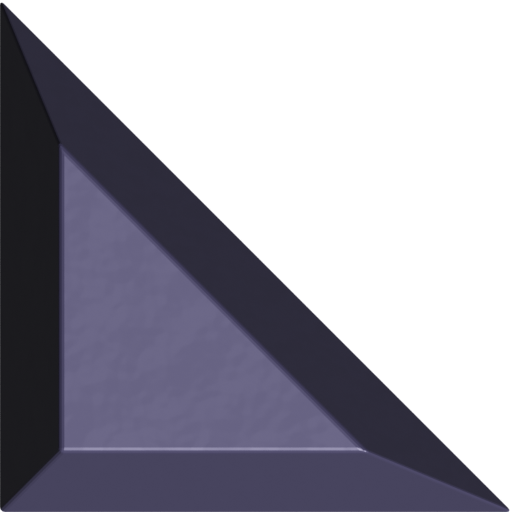
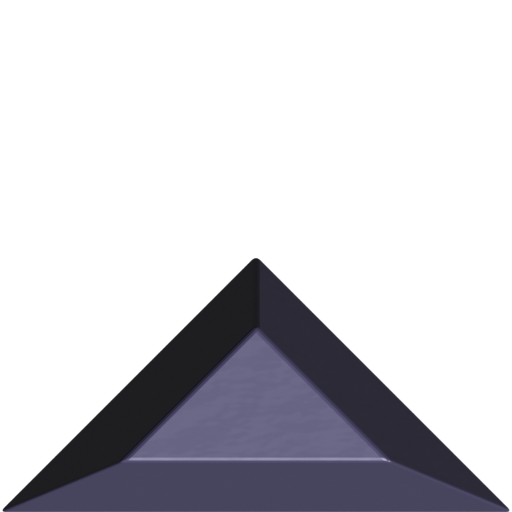
Triangle rendering.

diff --git a/www/gfx/graphics.js b/www/gfx/graphics.js
@@ -1,5 +1,5 @@
 import {lerpVec, extrapolateVec} from "../interpolate.js";
-import { Vec } from "../math.js";
+import { Vec, Transform } from "../math.js";
 import {Tile} from "../map.js";
 import {Laser} from "../weapons.js";
 import * as conf from "../conf.js";
@@ -65,6 +65,8 @@ class Graphics {
         this.wallNormalTex = Texture.fromImage(assets.wallNormalImage, false);
         this.cornerTriangleAlbedoTex = Texture.fromImage(assets.cornerTriangleAlbedoImage, true);
         this.cornerTriangleNormalTex = Texture.fromImage(assets.cornerTriangleNormalImage, false);
+        this.triangleAlbedoTex = Texture.fromImage(assets.triangleAlbedoImage, true);
+        this.triangleNormalTex = Texture.fromImage(assets.triangleNormalImage, false);
         this.flagTex = Texture.fromImage(assets.flagImage, true);
     
         const resizeObserver = new ResizeObserver(() => {
@@ -118,8 +120,10 @@ class Graphics {
             shipPositions.push(lerpPos);
         }
 
-        gl.clearColor(0.0, 0.0, 1.0, 0.0);
-
+        // ========== DRAW NORMALS ==========
+        gl.clearColor(0.0, 0.0, 0.0, 0.0); // < 1 in alpha channel for normals means no lighting
+        gl.blendFunc(gl.SRC_ALPHA, gl.ONE_MINUS_SRC_ALPHA);
+        
         const rows = game.map.tileRows;
         for (let r = 0; r < rows.length; r++) {
             for (let c = 0; c < rows[r].length; c++) {
@@ -128,8 +132,12 @@ class Graphics {
                     case Tile.WALL:
                         this.renderer.drawTexture(c * conf.TILE_SIZE, r * conf.TILE_SIZE, conf.TILE_SIZE, conf.TILE_SIZE, this.wallNormalTex);
                         break;
+                    case Tile.WALL_TRIANGLE:
+                        this.renderer.drawTexture(c * conf.TILE_SIZE, r * conf.TILE_SIZE, conf.TILE_SIZE, conf.TILE_SIZE, this.floorNormalTex);
+                        this.renderer.drawTexture(c * conf.TILE_SIZE, r * conf.TILE_SIZE, conf.TILE_SIZE, conf.TILE_SIZE, this.triangleNormalTex, tile.orientation);
+                        break;
                     case Tile.WALL_TRIANGLE_CORNER:
-                        TODO
+                        //TODO
                         // TODO:
                         // - normals below causing trouble
                         // - can't just supply rotated version if lighting isn't directly from above!
@@ -143,14 +151,15 @@ class Graphics {
             }
         }
 
-        this.renderer.setAndClearTarget(this.normalTex);
         for (let pos of shipPositions) {
             this.renderer.drawTexture(pos.x - shipRadius, pos.y - shipRadius, shipRadius * 2, shipRadius * 2, this.shipNormalTex);
         }
 
+        this.renderer.setAndClearTarget(this.normalTex);
         this.renderer.render(this.camera);
 
-        gl.clearColor(0, 0, 0, 1.0);
+        // ========= DRAW ALBEDO ==========
+        gl.clearColor(0.3, 0.1, 0.5, 1.0);
 
         for (let r = 0; r < rows.length; r++) {
             for (let c = 0; c < rows[r].length; c++) {
@@ -158,6 +167,10 @@ class Graphics {
                 switch (tile.type) {
                     case Tile.WALL:
                         this.renderer.drawTexture(c * conf.TILE_SIZE, r * conf.TILE_SIZE, conf.TILE_SIZE, conf.TILE_SIZE, this.wallAlbedoTex);
+                        break;
+                    case Tile.WALL_TRIANGLE:
+                        this.renderer.drawTexture(c * conf.TILE_SIZE, r * conf.TILE_SIZE, conf.TILE_SIZE, conf.TILE_SIZE, this.floorAlbedoTex);
+                        this.renderer.drawTexture(c * conf.TILE_SIZE, r * conf.TILE_SIZE, conf.TILE_SIZE, conf.TILE_SIZE, this.triangleAlbedoTex, tile.orientation);
                         break;
                     case Tile.WALL_TRIANGLE_CORNER:
                         this.renderer.drawTexture(c * conf.TILE_SIZE, r * conf.TILE_SIZE, conf.TILE_SIZE, conf.TILE_SIZE, this.floorAlbedoTex);
@@ -170,11 +183,11 @@ class Graphics {
             }
         }
         
-        this.renderer.setAndClearTarget(this.albedoTex);
         for (let pos of shipPositions) {
             this.renderer.drawTexture(pos.x - shipRadius, pos.y - shipRadius, shipRadius * 2, shipRadius * 2, this.shipAlbedoTex);
         }
 
+        this.renderer.setAndClearTarget(this.albedoTex);
         this.renderer.render(this.camera);
 
         let lightsMesh = new Mesh(VertAttrib.POS_BIT);
@@ -239,12 +252,7 @@ class Graphics {
         );
         this.renderer.drawModel(screenModel);
         this.renderer.setAndClearTarget(null);
-
         this.renderer.render(this.uiCamera);
-
-        if (game.map !== null) {
-            this._drawLevel(game.map.tileRows);
-        }
         
         if (game.doDebug) {
             this.renderer.setColor(0, 1, 0);
@@ -412,28 +420,6 @@ class Graphics {
             mesh.add(a.x, a.y); mesh.add(d.x, d.y); mesh.add(startCap.x, startCap.y);
             mesh.setColor(endColor);
             mesh.add(c.x, c.y); mesh.add(b.x, b.y); mesh.add(endCap.x, endCap.y);
-        }
-    }
-
-    _drawLevel(rows) {
-        const p0 = new Vec();
-        const p1 = new Vec();
-        const p2 = new Vec();
-
-        this.renderer.setColor(0.3, 0.3, 0.3);
-        for (let r = 0; r < rows.length; r++) {
-            for (let c = 0; c < rows[r].length; c++) {
-                switch(rows[r][c].type) {
-                    case Tile.WALL:
-                        //this.renderer.drawRect(c * conf.TILE_SIZE, r * conf.TILE_SIZE, conf.TILE_SIZE, conf.TILE_SIZE);
-                        break;
-                    case Tile.WALL_TRIANGLE:
-                    //case Tile.WALL_TRIANGLE_CORNER:
-                        rows[r][c].setTrianglePoints(p0, p1, p2);
-                        this.renderer.drawTriangle(p0, p1, p2);
-                        break;
-                }
-            }
         }
     }
     

diff --git a/www/assets.js b/www/assets.js
@@ -11,6 +11,8 @@ let wallAlbedoImage;
 let wallNormalImage;
 let cornerTriangleAlbedoImage;
 let cornerTriangleNormalImage;
+let triangleAlbedoImage;
+let triangleNormalImage;
 let flagImage;
 
 let shapeVertSrc;
@@ -61,8 +63,11 @@ async function loadAssets() {
     wallAlbedoImage = await requestImage("assets/wall.png");
     wallNormalImage = await requestImage("assets/wall_normal.png");
 
-    cornerTriangleAlbedoImage = await requestImage("assets/wall_triangle.png");
-    cornerTriangleNormalImage = await requestImage("assets/wall_triangle_normal.png");
+    cornerTriangleAlbedoImage = await requestImage("assets/wall_triangle_corner.png");
+    cornerTriangleNormalImage = await requestImage("assets/wall_triangle_corner_normal.png");
+
+    triangleAlbedoImage = await requestImage("assets/wall_triangle.png");
+    triangleNormalImage = await requestImage("assets/wall_triangle_normal.png");
     
     flagImage = await requestImage("assets/flag.png");
 
@@ -130,6 +135,8 @@ export {
     wallNormalImage,
     cornerTriangleAlbedoImage,
     cornerTriangleNormalImage,
+    triangleAlbedoImage,
+    triangleNormalImage,
     shipPixelRatio,
     flagImage,
 

diff --git a/www/math.js b/www/math.js
@@ -174,6 +174,7 @@ class Transform {
         const S = Math.sin(rads);
         t.mat[0] = C; t.mat[3] = -S;
         t.mat[1] = S; t.mat[4] = C;
+        return t;
     }
 }
 
